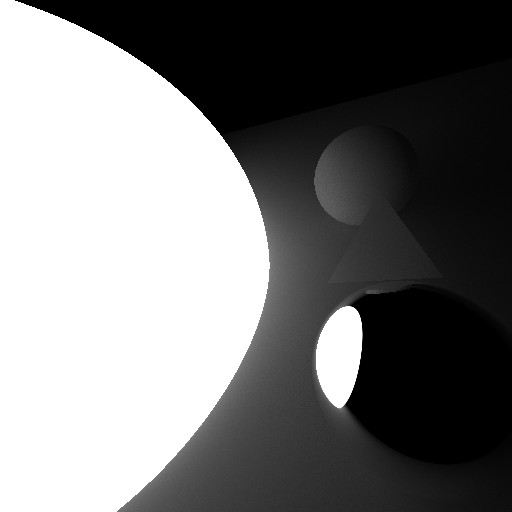
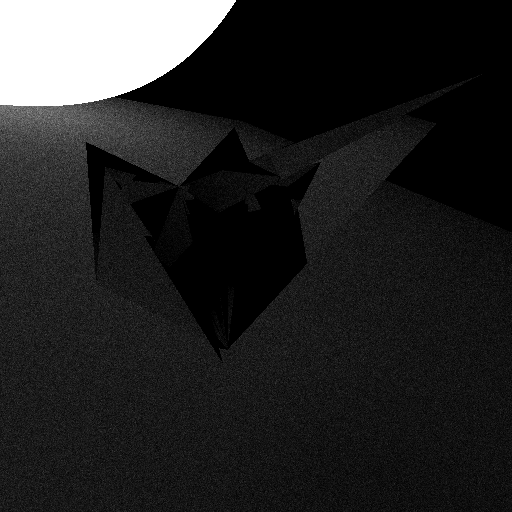
really bad glass, im gonna fix up the thread syste

diff --git a/Ray.java b/Ray.java
@@ -7,6 +7,7 @@ import java.util.Random;
 public final class Ray {
 	private Ray(){}
 	public static double[] trace(Vec3 origin, Vec3 direction, Environment env, int maxDepth, Random random){
+		final double EPSILON = 1e-8;
 		double[] rayColor = {1.0, 1.0, 1.0};
 		double[] incomingLight = {0.0, 0.0, 0.0};
 
@@ -30,7 +31,26 @@ public final class Ray {
 			//find next ray
 			Vec3 nextDirection;
 			if (collisionObject.transparency > 0){
-				nextDirection = direction;
+				//System.out.println("suck me");
+				double ior = 1;
+				double ior2 = 1.5;
+				double eta = ior/ior2;
+				double cosAngleIn = -direction.dot(intersection.normal);
+				Vec3 n = intersection.normal;
+				if (cosAngleIn < 0) {
+					// ray is inside the material
+					n = n.mul(-1);
+					cosAngleIn = -direction.dot(n);
+					eta = ior2 / ior;
+				}
+				double sinSqrAngleOfRefraction = eta * eta * (1 - cosAngleIn * cosAngleIn);
+				if (sinSqrAngleOfRefraction > 1){
+					break;
+				}
+				nextDirection = direction.mul(eta).add(intersection.normal.mul(eta * cosAngleIn - Math.sqrt(1 - sinSqrAngleOfRefraction)));
+				origin = intersection.pos.add(direction.mul(EPSILON));
+				
+				direction = nextDirection;
 			} else {
 				nextDirection = direction.sub(intersection.normal.mul(2 * direction.dot(intersection.normal))).normalize();
 				double iv = collisionObject.specularity;
@@ -40,9 +60,9 @@ public final class Ray {
 					nextDirection.y*iv+(random.nextDouble()-.5)*variance,
 					nextDirection.z*iv+(random.nextDouble()-.5)*variance
 				).normalize();
+				origin = intersection.pos;
+				direction = nextDirection;
 			}
-			origin = intersection.pos;
-			direction = nextDirection;
 			
 			//calculate colors
 			Color emittedColor = collisionObject.emittedColor;

diff --git a/Main.java b/Main.java
@@ -8,7 +8,7 @@ import java.util.concurrent.locks.LockSupport;
 
 public class Main {
 	public static void main(String[] args){
-		String model = "tetrahedron";
+		String model = "octahedron";
 		int fps = 0;
 		int size = 512;
 		if (args.length > 0){
@@ -16,15 +16,17 @@ public class Main {
 			size = Integer.parseInt(args[1]);
 		}
 		Environment env = new Environment();
-		env.physicalObjects.add(Mesh.loadObj(model, false, Color.WHITE, Material.SOLID));
+		env.physicalObjects.add(Mesh.loadObj(model, true, Color.WHITE, Material.MIRROR));
 		
 		env.physicalObjects.add(PhysicalObject.rectangle(0, -1, 0, 20, Color.WHITE, Material.SOLID));
 		
 		env.physicalObjects.add(new Sphere(new Vec3(0, 4, 7), 5, Color.WHITE, Material.LIGHT));
 
-		env.physicalObjects.add(new Sphere(new Vec3(-2, 0, 0), 1, Color.WHITE, Material.MIRROR));
+		//env.physicalObjects.add(new Sphere(new Vec3( -2, 1, 0), 1, Color.WHITE, Material.MIRROR));
 
-		env.physicalObjects.add(new Sphere(new Vec3(2, 0, 0), 1, Color.WHITE, Material.SOLID));
+		//env.physicalObjects.add(new Sphere(new Vec3(2, 0, 0), 1, Color.WHITE, Material.SOLID));
+
+		//env.physicalObjects.add(new Sphere(new Vec3(2, 0, 2), 1, Color.GREEN, Material.SOLID));
 		
 		runGame(new RaytracedGame(size, size , 1, Math.PI/2, env), fps);
 	}
@@ -38,9 +40,9 @@ public class Main {
 					long lastTime = System.nanoTime();
 					while (true){
 						long now = System.nanoTime();
-						double deltaTime = (now - lastTime) / 1_000_000_000.0;
+						double deltaTime = (now - lastTime) / 1_000_000.0;
 						lastTime = now;
-						game.tick(deltaTime*1000);
+						game.tick(deltaTime);
 						window.render();
 					}
 				}

diff --git a/PhysicalObject.java b/PhysicalObject.java
@@ -29,7 +29,7 @@ public abstract class PhysicalObject {
 				this.luminosity = 0;
 				this.emittedColor = Color.BLACK;
 				this.color = color;
-				this.specularity = .99;
+				this.specularity = 1;
 				this.transparency = 0;
 			}
 			case GLASS -> {
@@ -55,9 +55,9 @@ public abstract class PhysicalObject {
 					material, color
 				),
 				new Triangle(
-					new Point(new Vec3(x-radius, y, z+radius), 0),
-					new Point(new Vec3(x+radius, y, z+radius), 0),
 					new Point(new Vec3(x+radius, y, z-radius), 0),
+					new Point(new Vec3(x+radius, y, z+radius), 0),
+					new Point(new Vec3(x-radius, y, z+radius), 0),
 					material, color
 				)
 			}

diff --git a/Sphere.java b/Sphere.java
@@ -58,6 +58,7 @@ public class Sphere extends PhysicalObject{
 	}
 	@Override
 	public Intersection getIntersection(Vec3 rayOrigin, Vec3 rayVector){
+		final double EPSILON = 1e-8;
 		Vec3 l = rayOrigin.sub(point);
 		
 		double a = 1;
@@ -75,8 +76,8 @@ public class Sphere extends PhysicalObject{
 
 		double t = Double.POSITIVE_INFINITY;
 		
-		if (t0 > 0 && t0 < t) t = t0;
-		if (t1 > 0 && t1 < t) t = t1;
+		if (t0 > EPSILON && t0 < t) t = t0;
+		if (t1 > EPSILON && t1 < t) t = t1;
 
 		if (t == Double.POSITIVE_INFINITY) return null;
 		Vec3 intersectionPoint = rayOrigin.add(rayVector.mul(t));

diff --git a/RaytracedGame.java b/RaytracedGame.java
@@ -198,9 +198,9 @@ public class RaytracedGame extends Game{
 				
 				Pixel pixel = pixelBuffer[y/pixelSize][x/pixelSize];
 				double[] color = new double[3];
-				int resolution = 4;
+				int resolution = 1;
 				for (int i = 0; i < resolution; i++){
-					double[] col = Ray.trace(origin, vector, env, 10, random);
+					double[] col = Ray.trace(origin, vector, env, 50, random);
 					color[0] += col[0];
 					color[1] += col[1];
 					color[2] += col[2];

diff --git a/Transform.java b/Transform.java
@@ -6,9 +6,13 @@ public class Transform {
 	public Mat3 rot;
 	public Mat3 inv;
 	public Transform(){
-		this.translation = new Vec3(0, 0, 0);
+		final double EPSILON = 1e-8;
+		this.translation = new Vec3(EPSILON, EPSILON, EPSILON);
 		this.rot = Mat3.identity();
 		this.inv = rot.transpose();
+		rotateX(EPSILON);
+		rotateY(EPSILON);
+		rotateZ(EPSILON);
 	}
 	public Vec3 getForwardVector(){
 		return new Vec3(rot.m02, rot.m12, rot.m22).normalize();

diff --git a/Triangle.java b/Triangle.java
@@ -107,7 +107,7 @@ public final class Triangle extends PhysicalObject{
 	@Override
 	public Intersection getIntersection(Vec3 rayOrigin, Vec3 rayVector){
 
-		final double EPSILON = 1e-4;
+		final double EPSILON = 1e-8;
 
 		Vec3 edge1 = p2.pos.sub(p1.pos);
 		Vec3 edge2 = p3.pos.sub(p1.pos);
